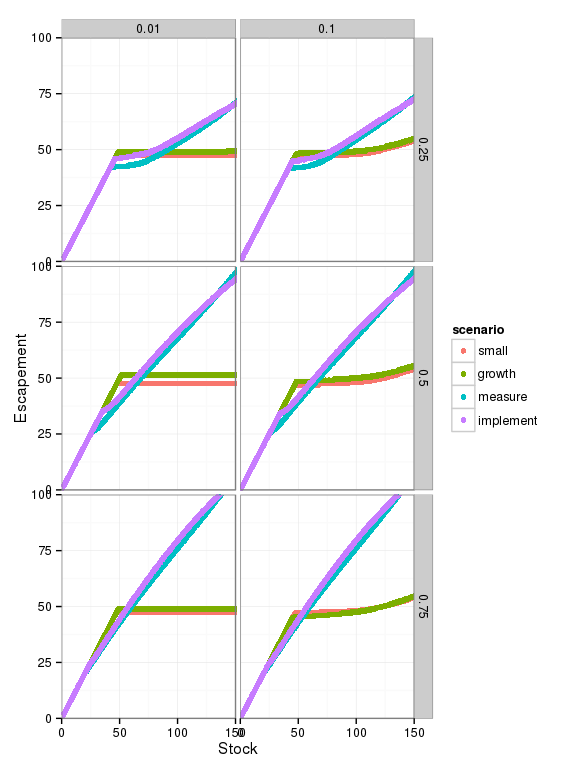
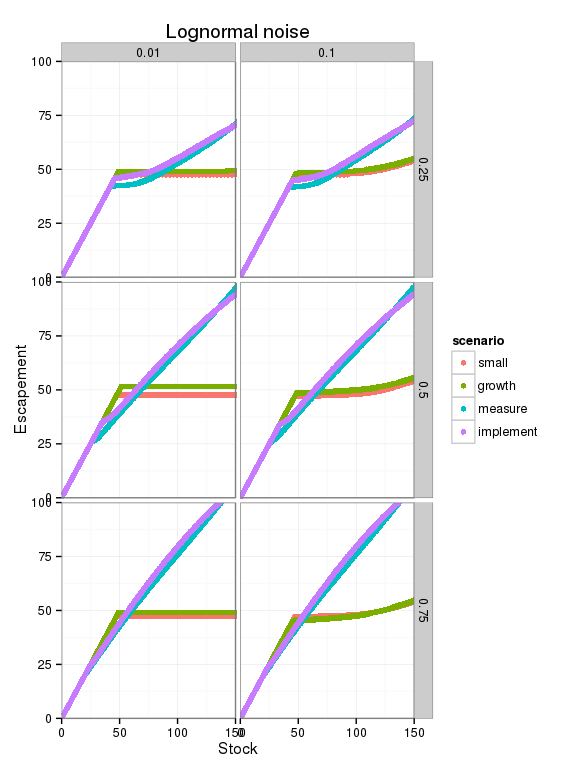
compare how uniform vs lognormal scales with noise magnitude

diff --git a/inst/scripts/lognormal.md b/inst/scripts/lognormal.md
@@ -9,10 +9,9 @@ knitr::opts_chunk$set(cache = TRUE)
 Optimal control under multiple uncertainty by model:
 
 ``` r
-noise_dist = "lognormal"
 model = "logistic"
 
-fig3 <- function(low, high){  
+fig3 <- function(low, high, noise_dist){  
   grid <- seq(0, 200, length = 401)
   model <- get(as.character(model))
   small     <- multiple_uncertainty(f = model, x_grid = grid, sigma_g = low, sigma_m = low, sigma_i = low, noise_dist = noise_dist)
@@ -27,20 +26,35 @@ fig3 <- function(low, high){
 ```
 
 ``` r
-expand.grid(low = c(0.01, 0.1), high = c(0.25, 0.5, 0.75) ) %>%
-  dplyr::group_by(low, high) %>%
-  dplyr::do(fig3(.$low, .$high)) -> df
+expand.grid(low = c(0.01, 0.1), high = c(0.25, 0.5, 0.75), noise_dist = c("lognormal", "uniform")) %>%
+  dplyr::group_by(low, high, noise_dist) %>%
+  dplyr::do(fig3(.$low, .$high, .$noise_dist)) -> df
 ```
 
 ``` r
-df %>%
+df %>% filter(noise_dist == "lognormal") %>%
   ggplot(aes(x = y_grid, y = value, col = scenario)) + 
     geom_point()  + 
     facet_grid(high ~ low) + 
     xlab("Stock") + 
     ylab("Escapement") + 
     coord_cartesian(xlim = c(0, 150), ylim = c(0,100)) + 
-    theme_bw()
+    theme_bw() + 
+    ggtitle("Lognormal noise")
 ```
 
 ![](lognormal_files/figure-markdown_github/unnamed-chunk-4-1.png)
+
+``` r
+df %>% filter(noise_dist == "uniform") %>%
+  ggplot(aes(x = y_grid, y = value, col = scenario)) + 
+    geom_point()  + 
+    facet_grid(high ~ low) + 
+    xlab("Stock") + 
+    ylab("Escapement") + 
+    coord_cartesian(xlim = c(0, 150), ylim = c(0,100)) + 
+    theme_bw() + 
+    ggtitle("Uniform noise")
+```
+
+![](lognormal_files/figure-markdown_github/unnamed-chunk-5-1.png)
